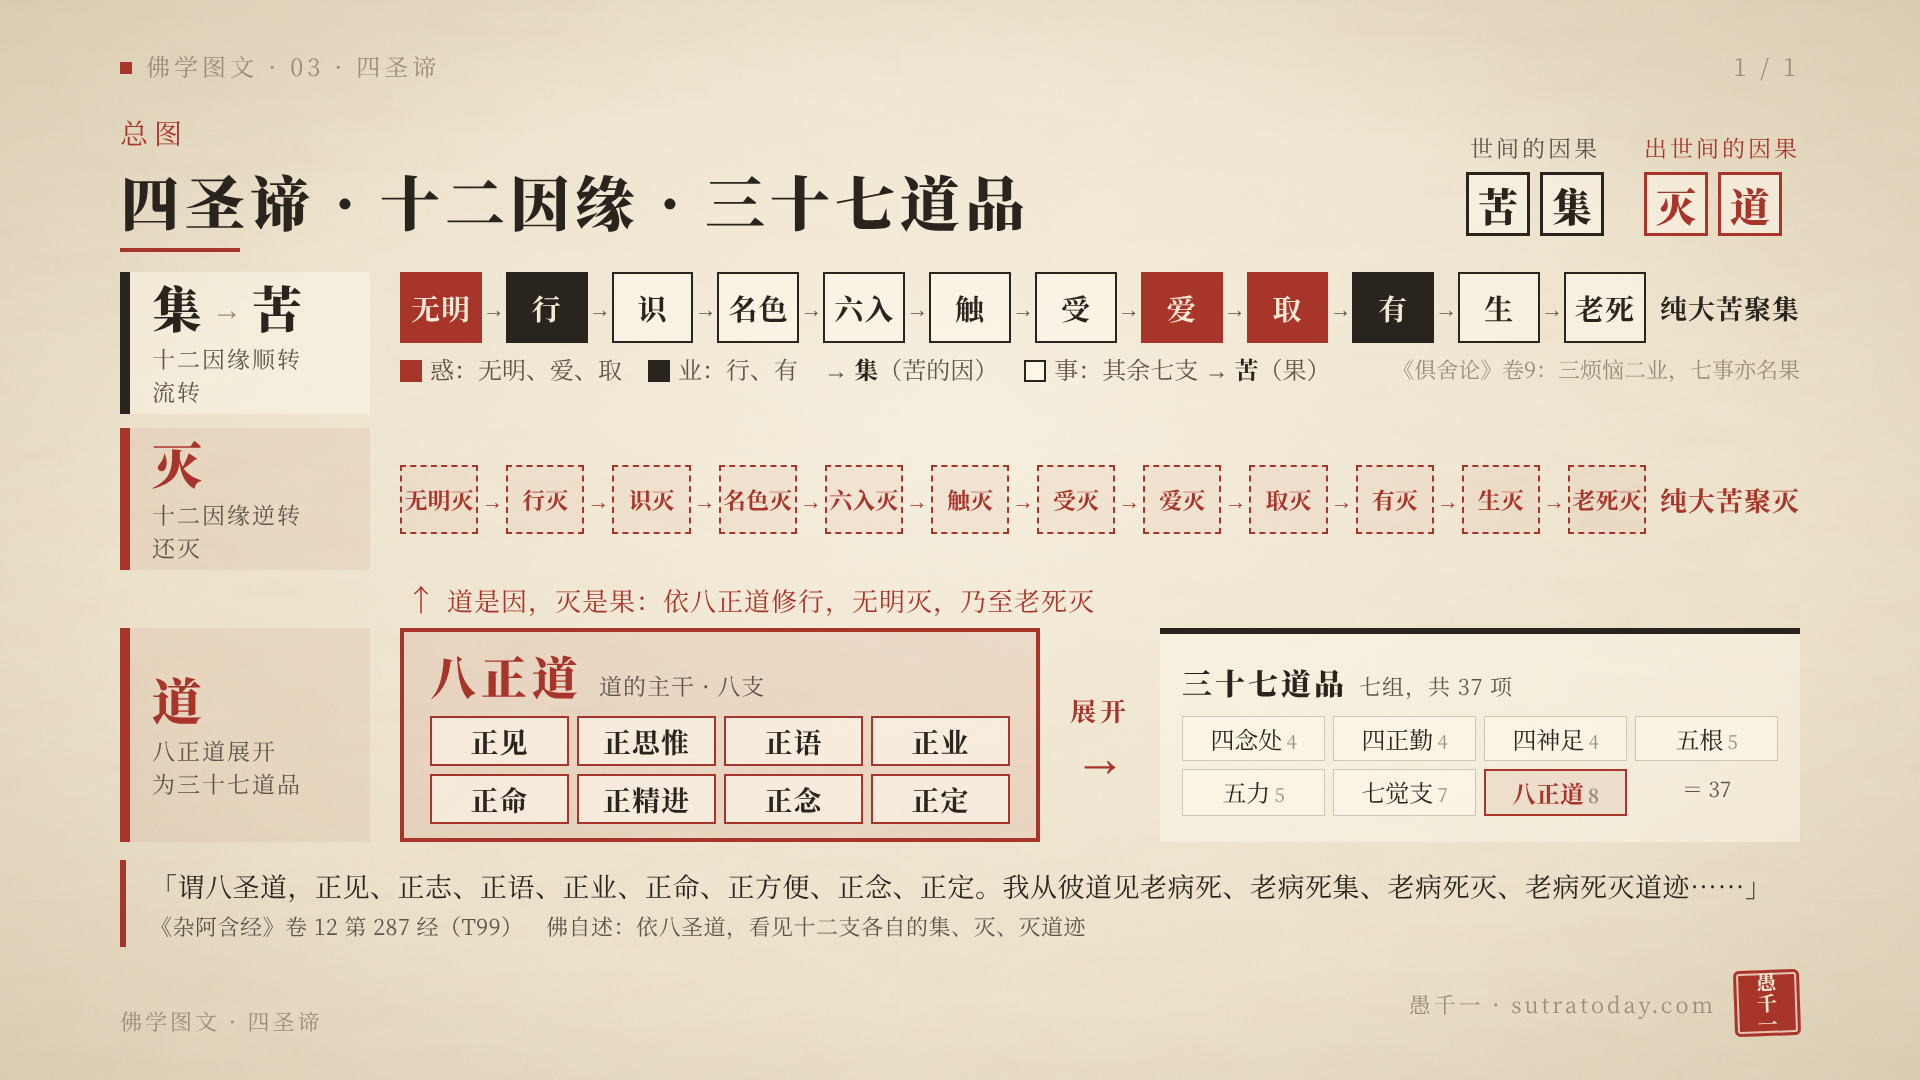
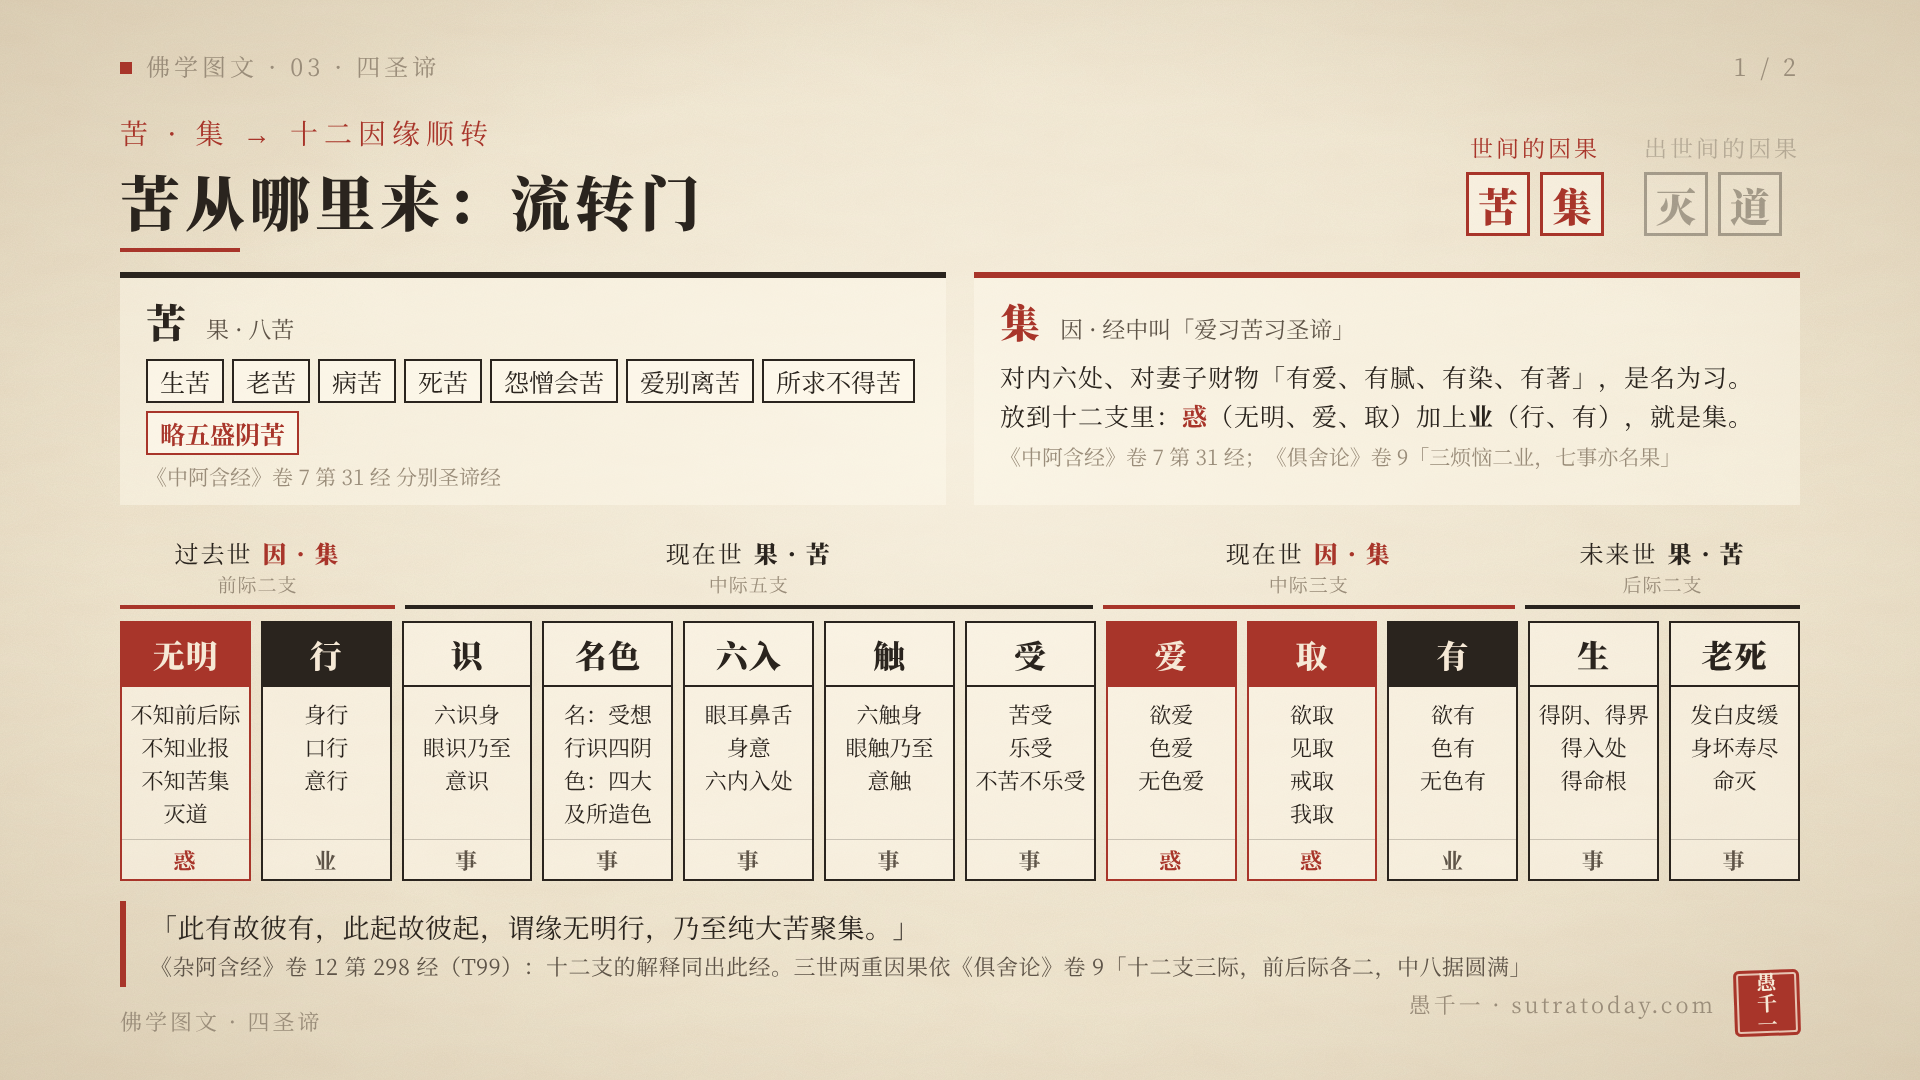
videos: 四圣谛加第二张图——苦集与十二因缘顺转（八苦、爱习、十二支释义、三世两重因果）
Claude-Session: https://claude.ai/code/session_01HUmfYdn8wkAM14ebYcQraf

diff --git a/videos/four-noble-truths-infographic/cards.html b/videos/four-noble-truths-infographic/cards.html
@@ -153,11 +153,94 @@
   .sq .gs div { text-align: center; font-size: 24px; padding: 4px 0; border: 1.5px solid var(--line); background: rgba(255,250,238,.5); }
   .sq .gs div small { font-size: 19px; color: var(--ink-faint); margin-left: 4px; }
   .sq .gs div.r { border: 2px solid var(--cinnabar); color: var(--cinnabar); font-weight: 700; background: rgba(168,53,42,.08); }
+
+  /* ===== 苦集卡 ===== */
+  .ks { display: grid; grid-template-columns: 1fr 1fr; gap: 28px; }
+  .ks .blk { padding: 14px 26px 14px; background: rgba(255,250,238,.45); border-top: 6px solid var(--ink); }
+  .ks .blk .h { display: flex; align-items: baseline; gap: 16px; }
+  .ks .blk .h b { font-size: 40px; font-weight: 900; letter-spacing: 4px; }
+  .ks .blk .h span { font-size: 23px; color: var(--ink-soft); }
+  .ks .pl { display: flex; flex-wrap: wrap; gap: 8px; margin-top: 10px; }
+  .ks .pl i { font-style: normal; font-size: 25px; padding: 2px 12px; border: 2px solid var(--ink); background: rgba(255,250,238,.6); }
+  .ks .pl i.last { border-color: var(--cinnabar); color: var(--cinnabar); font-weight: 700; }
+  .ks .blk p { font-size: 25px; line-height: 1.55; margin-top: 8px; }
+  .ks .blk .s { font-size: 21px; color: var(--ink-faint); margin-top: 6px; }
+
+  .sj { display: grid; grid-template-columns: 2fr 5fr 3fr 2fr; gap: 10px; margin-top: 24px; }
+  .sj div { text-align: center; font-size: 24px; letter-spacing: 2px; padding: 6px 0 8px; border-bottom: 4px solid var(--ink); }
+  .sj div b { font-weight: 900; margin-left: 10px; }
+  .sj div.ji b { color: var(--cinnabar); }
+  .sj div.ji { border-bottom-color: var(--cinnabar); }
+  .sj div small { display: block; font-size: 19px; color: var(--ink-faint); letter-spacing: 1px; }
+
+  .zh { display: grid; grid-template-columns: repeat(12, 1fr); gap: 10px; margin-top: 12px; }
+  .zh .z { background: rgba(255,250,238,.5); border: 2px solid var(--ink); display: flex; flex-direction: column; }
+  .zh .z .n { text-align: center; font-size: 32px; font-weight: 900; padding: 8px 0; letter-spacing: 1px; border-bottom: 2px solid var(--ink); }
+  .zh .z.huo { border-color: var(--cinnabar); }
+  .zh .z.huo .n { background: var(--cinnabar); color: #f6e9d6; border-bottom-color: var(--cinnabar); }
+  .zh .z.ye .n { background: var(--ink); color: #f6e9d6; }
+  .zh .z .d { font-size: 22px; line-height: 1.5; padding: 10px 6px 10px; color: var(--ink); text-align: center; }
+  .zh .z .t { font-size: 22px; font-weight: 700; color: var(--ink-soft); text-align: center; padding: 4px 0; margin-top: auto; letter-spacing: 2px; border-top: 1px solid var(--line); }
+  .zh .z.huo .t { color: var(--cinnabar); }
   .q { margin-top: 18px; font-size: 27px; line-height: 1.6; letter-spacing: .5px; border-left: 6px solid var(--cinnabar); padding: 4px 0 4px 24px; }
   .q small { display: block; font-size: 22px; color: var(--ink-soft); }
 </style>
 </head>
 <body class="review">
+
+<!-- ===== 苦集 与 十二因缘顺转 ===== -->
+<section class="card">
+  <div class="head"><span class="series">佛学图文 · 03 · 四圣谛</span><span class="pg"></span></div>
+  <div class="top">
+    <div>
+      <div class="kicker">苦 · 集 → 十二因缘顺转</div>
+      <h1 class="title">苦从哪里来：流转门</h1>
+    </div>
+    <div class="di4">
+      <div class="half"><div class="cap r">世间的因果</div><div class="ch"><b class="r">苦</b><b class="r">集</b></div></div>
+      <div class="half" style="opacity:.35"><div class="cap">出世间的因果</div><div class="ch"><b>灭</b><b>道</b></div></div>
+    </div>
+  </div>
+  <div class="rule"></div>
+
+  <div class="ks">
+    <div class="blk">
+      <div class="h"><b>苦</b><span>果 · 八苦</span></div>
+      <div class="pl"><i>生苦</i><i>老苦</i><i>病苦</i><i>死苦</i><i>怨憎会苦</i><i>爱别离苦</i><i>所求不得苦</i><i class="last">略五盛阴苦</i></div>
+      <div class="s">《中阿含经》卷 7 第 31 经 分别圣谛经</div>
+    </div>
+    <div class="blk" style="border-top-color:var(--cinnabar)">
+      <div class="h"><b style="color:var(--cinnabar)">集</b><span>因 · 经中叫「爱习苦习圣谛」</span></div>
+      <p>对内六处、对妻子财物「有爱、有腻、有染、有著」，是名为习。<br>放到十二支里：<b class="red">惑</b>（无明、爱、取）加上<b>业</b>（行、有），就是集。</p>
+      <div class="s">《中阿含经》卷 7 第 31 经；《俱舍论》卷 9「三烦恼二业，七事亦名果」</div>
+    </div>
+  </div>
+
+  <div class="sj">
+    <div class="ji">过去世<b>因 · 集</b><small>前际二支</small></div>
+    <div>现在世<b>果 · 苦</b><small>中际五支</small></div>
+    <div class="ji">现在世<b>因 · 集</b><small>中际三支</small></div>
+    <div>未来世<b>果 · 苦</b><small>后际二支</small></div>
+  </div>
+  <div class="zh">
+    <div class="z huo"><div class="n">无明</div><div class="d">不知前后际<br>不知业报<br>不知苦集<br>灭道</div><div class="t">惑</div></div>
+    <div class="z ye"><div class="n">行</div><div class="d">身行<br>口行<br>意行</div><div class="t">业</div></div>
+    <div class="z"><div class="n">识</div><div class="d">六识身<br>眼识乃至<br>意识</div><div class="t">事</div></div>
+    <div class="z"><div class="n">名色</div><div class="d">名：受想<br>行识四阴<br>色：四大<br>及所造色</div><div class="t">事</div></div>
+    <div class="z"><div class="n">六入</div><div class="d">眼耳鼻舌<br>身意<br>六内入处</div><div class="t">事</div></div>
+    <div class="z"><div class="n">触</div><div class="d">六触身<br>眼触乃至<br>意触</div><div class="t">事</div></div>
+    <div class="z"><div class="n">受</div><div class="d">苦受<br>乐受<br>不苦不乐受</div><div class="t">事</div></div>
+    <div class="z huo"><div class="n">爱</div><div class="d">欲爱<br>色爱<br>无色爱</div><div class="t">惑</div></div>
+    <div class="z huo"><div class="n">取</div><div class="d">欲取<br>见取<br>戒取<br>我取</div><div class="t">惑</div></div>
+    <div class="z ye"><div class="n">有</div><div class="d">欲有<br>色有<br>无色有</div><div class="t">业</div></div>
+    <div class="z"><div class="n">生</div><div class="d">得阴、得界<br>得入处<br>得命根</div><div class="t">事</div></div>
+    <div class="z"><div class="n">老死</div><div class="d">发白皮缓<br>身坏寿尽<br>命灭</div><div class="t">事</div></div>
+  </div>
+
+  <div class="q" style="margin-top:20px">「此有故彼有，此起故彼起，谓缘无明行，乃至纯大苦聚集。」<small>《杂阿含经》卷 12 第 298 经（T99）：十二支的解释同出此经。三世两重因果依《俱舍论》卷 9「十二支三际，前后际各二，中八据圆满」</small></div>
+
+  <div class="foot"><span>佛学图文 · 四圣谛</span><span class="sign">愚千一 · sutratoday.com<span class="seal">愚千一</span></span></div>
+</section>
 
 <!-- ===== 总图：四圣谛、十二因缘、三十七道品 ===== -->
 <section class="card">

diff --git a/videos/four-noble-truths-infographic/sources.md b/videos/four-noble-truths-infographic/sources.md
@@ -6,10 +6,16 @@
 |---|---|---|
 | 总图 | 谓八圣道，正见、正志、正语、正业、正命、正方便、正念、正定。我从彼道见老病死、老病死集、老病死灭、老病死灭道迹 | 《杂阿含经》卷 12 第 287 经（T99，T02 p0080c） |
 | 总图 | 三烦恼二业，七事亦名果（论：无明爱取烦恼为性，行及有支以业为性，余识等七以事为性） | 《阿毘达磨俱舍论》卷 9（T1558） |
+| 苦集 | 云何苦圣谛？谓生苦、老苦、病苦、死苦、怨憎会苦、爱别离苦、所求不得苦、略五盛阴苦 | 《中阿含经》卷 7 第 31 经 分别圣谛经（T26）；同句又见同卷第 29 经大拘絺罗经、第 30 经象迹喻经 |
+| 苦集 | 云何爱习苦习圣谛？谓众生实有爱内六处……于中若有爱、有腻、有染、有著者，是名为习 | 《中阿含经》卷 7 第 31 经 分别圣谛经 |
+| 苦集 | 此有故彼有，此起故彼起，谓缘无明行，乃至纯大苦聚集；十二支逐支解释（无明＝不知前际后际……不知苦集灭道；行＝身行口行意行；识＝六识身；名色＝四无色阴＋四大及所造色；六入处＝六内入处；触＝六触身；受＝三受；爱＝欲爱色爱无色爱；取＝欲取见取戒取我取；有＝欲有色有无色有；生＝得阴、得界、得入处、得命根；老死＝发白……身坏、寿尽、命灭） | 《杂阿含经》卷 12 第 298 经（T99） |
+| 苦集 | 如是诸缘起，十二支三际，前后际各二，中八据圆满 | 《阿毘达磨俱舍论》卷 9（T1558） |
 
 ## 图上的说法与依据
 
 - 惑、业＝集（苦的因），七事＝苦（果）：依《俱舍论》卷 9「如是七事即亦名果……以烦恼业为自性故」名因。
 - 世间的因果（集因苦果）、出世间的因果（道因灭果）：汉传通行的四谛解说，不是某一部经的原句。
+- 三世两重因果与集、苦的对应（过去因、现在因＝集；现在果、未来果＝苦）：依《俱舍论》卷 9 三际分支与「惑业事」的说法排出，是论家的解说，不是经文原句。
+- 卡片里的十二支解释是对第 298 经原文的节略，没有改动意思。
 - 三十七道品 = 四念处 4、四正勤 4、四神足 4、五根 5、五力 5、七觉支 7、八正道 8。
 - 八正道的名称：图上用通行译名（正思惟、正精进）；《杂阿含》第 287 经作「正志」「正方便」，引文保留原文。
